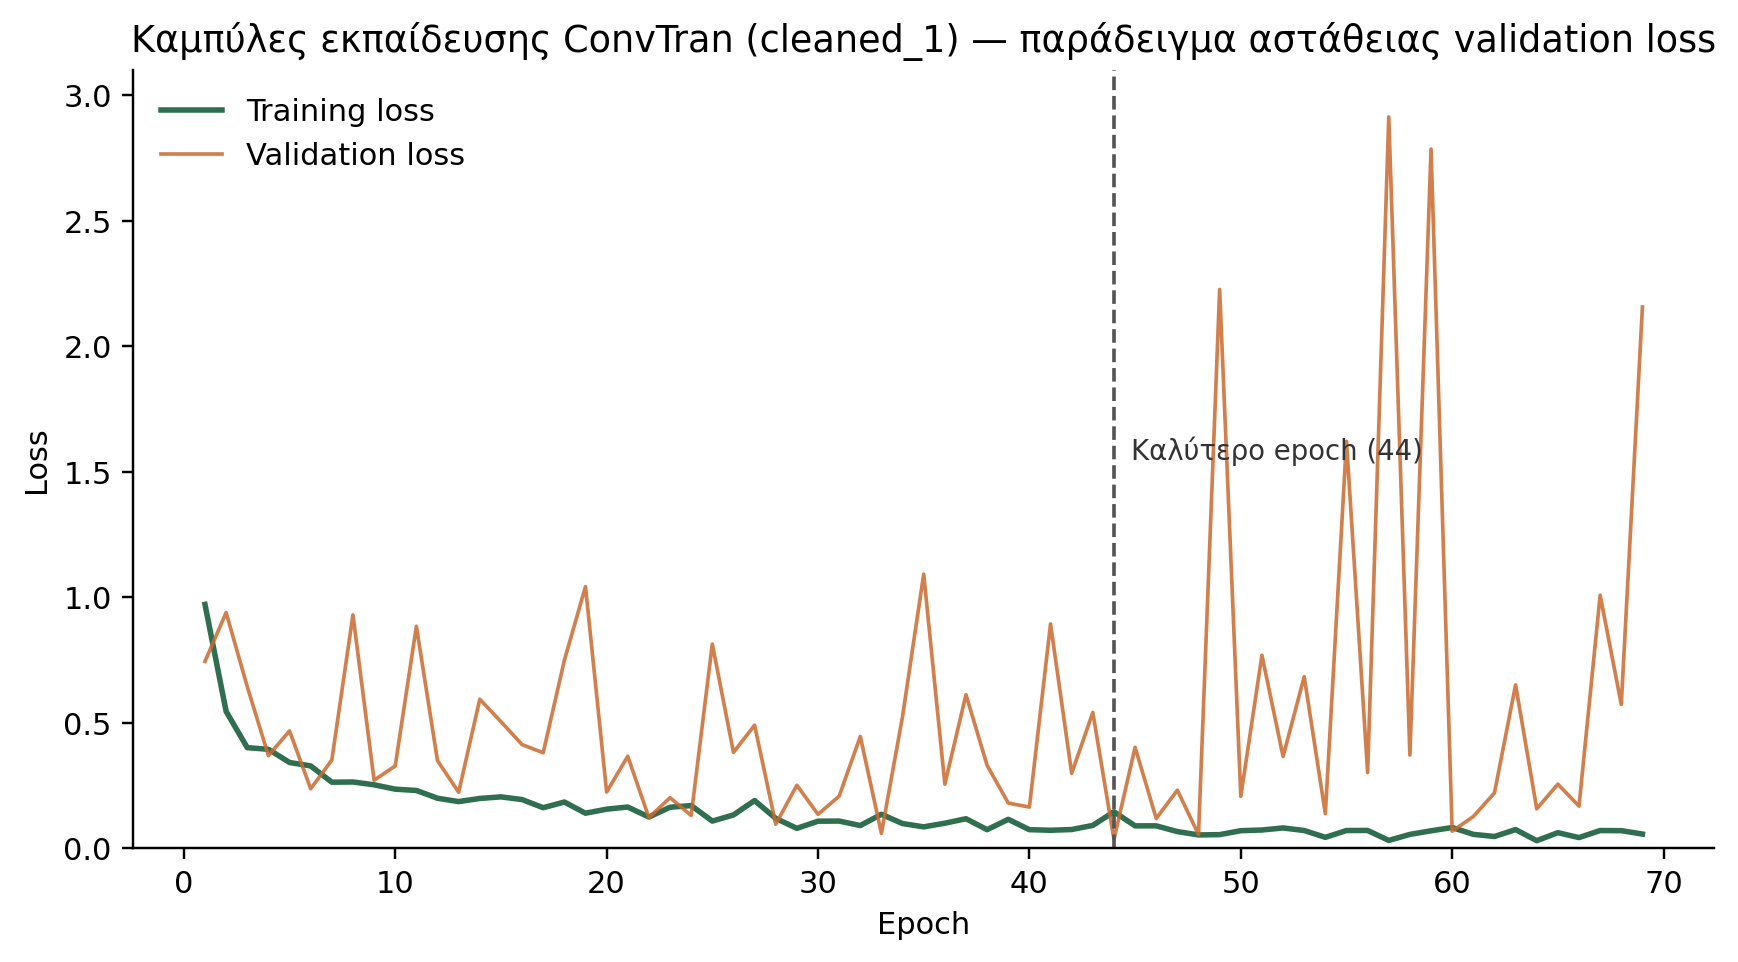
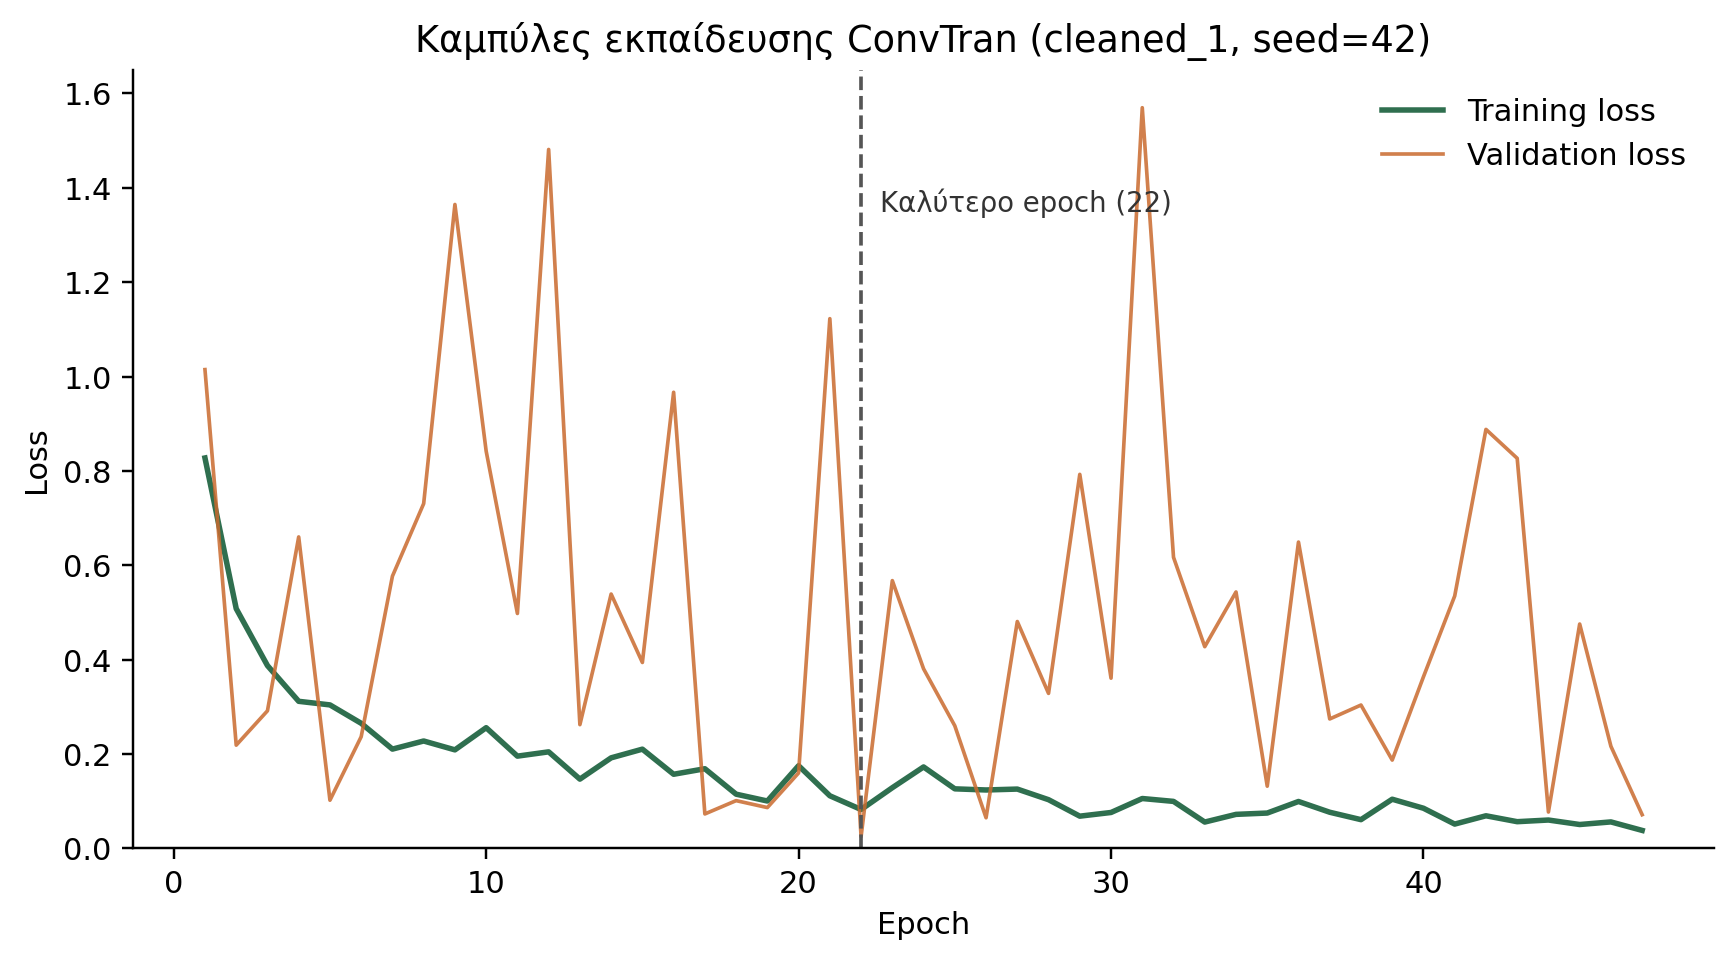
Plot change and new file for checkpoints

diff --git a/outputs/plots/training_curves.py b/outputs/plots/training_curves.py
@@ -1,24 +1,34 @@
+"""
+plot_training_curves.py
+
+Δημιουργεί το Σχήμα 5.1 της διπλωματικής: καμπύλες training/validation loss
+από το ΕΠΙΣΗΜΟ, σταθεροποιημένο (seed=42) training run του ConvTran
+(ομάδα cleaned_1) — το ίδιο run από το οποίο προέρχονται όλα τα τελικά
+αποτελέσματα της εργασίας (Πίνακας 5.4, Κεφάλαιο 7).
+
+Το καλύτερο epoch (βάσει early stopping, ελάχιστο validation loss) είναι
+το 22 — ταυτίζεται με το epoch που αναφέρεται στον Πίνακα 5.4 και με το
+πεδίο 'epoch' του αποθηκευμένου checkpoint (outputs/models/convtran_cleaned_1.pt),
+όπως επιβεβαιώθηκε μέσω του check_checkpoints.py.
+"""
+
 import matplotlib.pyplot as plt
 
-epochs = list(range(1, 70))
+epochs = list(range(1, 48))
 
-train_loss = [0.9715, 0.5455, 0.4011, 0.3945, 0.3420, 0.3283, 0.2636, 0.2644, 0.2532, 0.2358,
-              0.2306, 0.1997, 0.1863, 0.1989, 0.2051, 0.1944, 0.1620, 0.1846, 0.1401, 0.1562,
-              0.1647, 0.1249, 0.1638, 0.1705, 0.1087, 0.1332, 0.1905, 0.1194, 0.0798, 0.1083,
-              0.1088, 0.0910, 0.1357, 0.0988, 0.0858, 0.1002, 0.1181, 0.0745, 0.1157, 0.0745,
-              0.0722, 0.0751, 0.0916, 0.1458, 0.0897, 0.0898, 0.0669, 0.0536, 0.0548, 0.0705,
-              0.0732, 0.0814, 0.0712, 0.0440, 0.0711, 0.0714, 0.0317, 0.0558, 0.0700, 0.0831,
-              0.0559, 0.0474, 0.0749, 0.0307, 0.0626, 0.0430, 0.0711, 0.0706, 0.0571]
+train_loss = [0.8274, 0.5081, 0.3874, 0.3117, 0.3041, 0.2651, 0.2104, 0.2276, 0.2088, 0.2558,
+              0.1955, 0.2046, 0.1468, 0.1919, 0.2103, 0.1571, 0.1688, 0.1149, 0.1004, 0.1752,
+              0.1115, 0.0824, 0.1286, 0.1726, 0.1262, 0.1238, 0.1257, 0.1032, 0.0683, 0.0761,
+              0.1057, 0.0996, 0.0558, 0.0721, 0.0749, 0.0994, 0.0766, 0.0609, 0.1042, 0.0851,
+              0.0515, 0.0691, 0.0566, 0.0601, 0.0506, 0.0561, 0.0381]
 
-val_loss = [0.7444, 0.9389, 0.6439, 0.3693, 0.4679, 0.2375, 0.3516, 0.9298, 0.2714, 0.3282,
-            0.8843, 0.3492, 0.2234, 0.5939, 0.5047, 0.4133, 0.3808, 0.7485, 1.0424, 0.2245,
-            0.3667, 0.1224, 0.2018, 0.1310, 0.8135, 0.3823, 0.4906, 0.0962, 0.2515, 0.1357,
-            0.2078, 0.4456, 0.0597, 0.5259, 1.0919, 0.2558, 0.6120, 0.3305, 0.1805, 0.1644,
-            0.8936, 0.2986, 0.5413, 0.0358, 0.4025, 0.1191, 0.2318, 0.0551, 2.2254, 0.2071,
-            0.7690, 0.3658, 0.6838, 0.1382, 1.6205, 0.3020, 2.9124, 0.3718, 2.7845, 0.0683,
-            0.1269, 0.2208, 0.6512, 0.1577, 0.2556, 0.1683, 1.0081, 0.5733, 2.1557]
+val_loss = [1.0147, 0.2188, 0.2916, 0.6601, 0.1021, 0.2367, 0.5769, 0.7307, 1.3646, 0.8419,
+            0.4979, 1.4812, 0.2622, 0.5390, 0.3940, 0.9666, 0.0730, 0.1012, 0.0865, 0.1599,
+            1.1226, 0.0250, 0.5675, 0.3806, 0.2598, 0.0649, 0.4808, 0.3285, 0.7927, 0.3608,
+            1.5697, 0.6169, 0.4275, 0.5434, 0.1318, 0.6492, 0.2743, 0.3038, 0.1872, 0.3637,
+            0.5349, 0.8880, 0.8267, 0.0771, 0.4755, 0.2163, 0.0714]
 
-BEST_EPOCH = 44
+BEST_EPOCH = 22
 OUTPUT_PATH = "outputs/plots/figure_5_1_training_curves.png"
 
 if __name__ == "__main__":
@@ -27,16 +37,16 @@ if __name__ == "__main__":
     ax.plot(epochs, train_loss, color="#2f6f4f", linewidth=1.8, label="Training loss")
     ax.plot(epochs, val_loss, color="#c96a2e", linewidth=1.2, alpha=0.85, label="Validation loss")
     ax.axvline(BEST_EPOCH, color="#555555", linestyle="--", linewidth=1.2)
-    ax.text(BEST_EPOCH + 0.8, 1.55, f"Καλύτερο epoch ({BEST_EPOCH})",
+    ax.text(BEST_EPOCH + 0.6, 1.35, f"Καλύτερο epoch ({BEST_EPOCH})",
             fontsize=9, color="#333333")
 
     ax.set_xlabel("Epoch")
     ax.set_ylabel("Loss")
-    ax.set_title("Καμπύλες εκπαίδευσης ConvTran (cleaned_1) — παράδειγμα αστάθειας validation loss")
-    ax.legend(loc="upper left", frameon=False)
+    ax.set_title("Καμπύλες εκπαίδευσης ConvTran (cleaned_1, seed=42)")
+    ax.legend(loc="upper right", frameon=False)
     ax.spines['top'].set_visible(False)
     ax.spines['right'].set_visible(False)
-    ax.set_ylim(0, 3.1)
+    ax.set_ylim(0, 1.65)
 
     plt.tight_layout()
     plt.savefig(OUTPUT_PATH, dpi=220, bbox_inches='tight', facecolor='white')

diff --git a/checkpoints.py b/checkpoints.py
@@ -1,0 +1,11 @@
+import torch
+
+CHECKPOINTS = {
+    'cleaned_1': 'outputs/models/convtran_cleaned_1.pt',
+    'cleaned_2': 'outputs/models/convtran_cleaned_2.pt',
+    'cleaned_3': 'outputs/models/convtran_cleaned_3.pt',
+}
+
+for name, path in CHECKPOINTS.items():
+    ckpt = torch.load(path, map_location='cpu', weights_only=False)
+    print(f"{name}: καλύτερο epoch = {ckpt['epoch']}, val_loss = {ckpt['val_loss']:.4f}, val_acc = {ckpt['val_acc']:.4f},")
